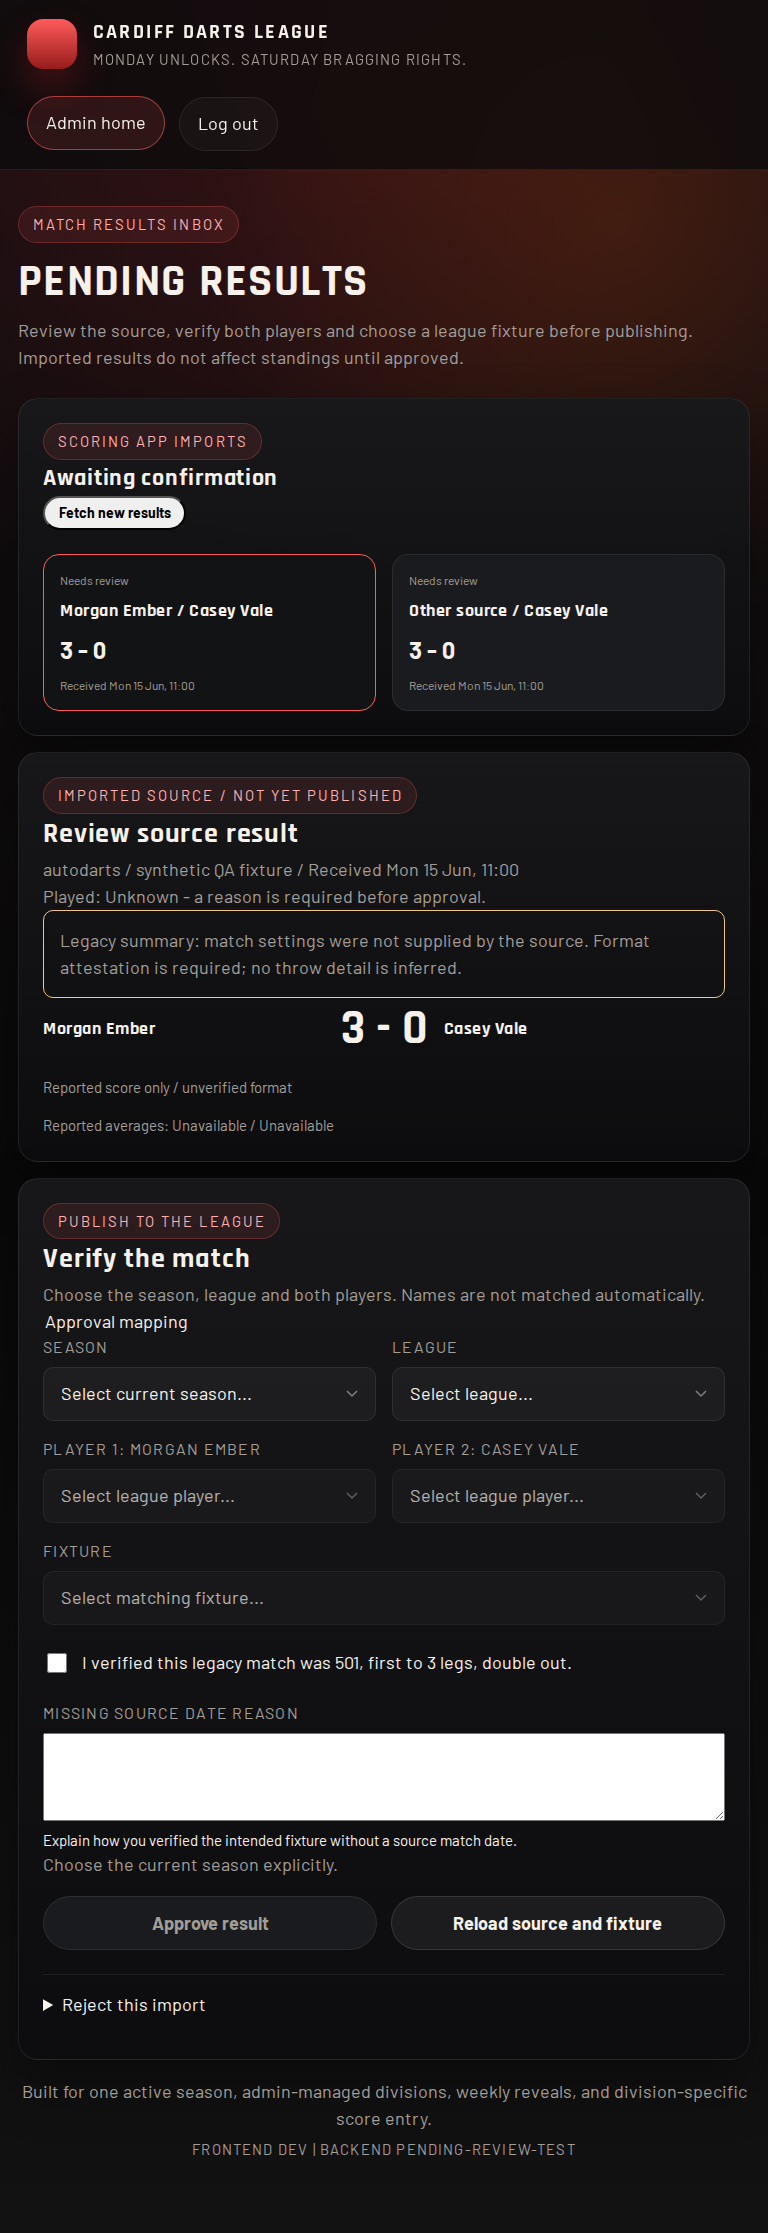
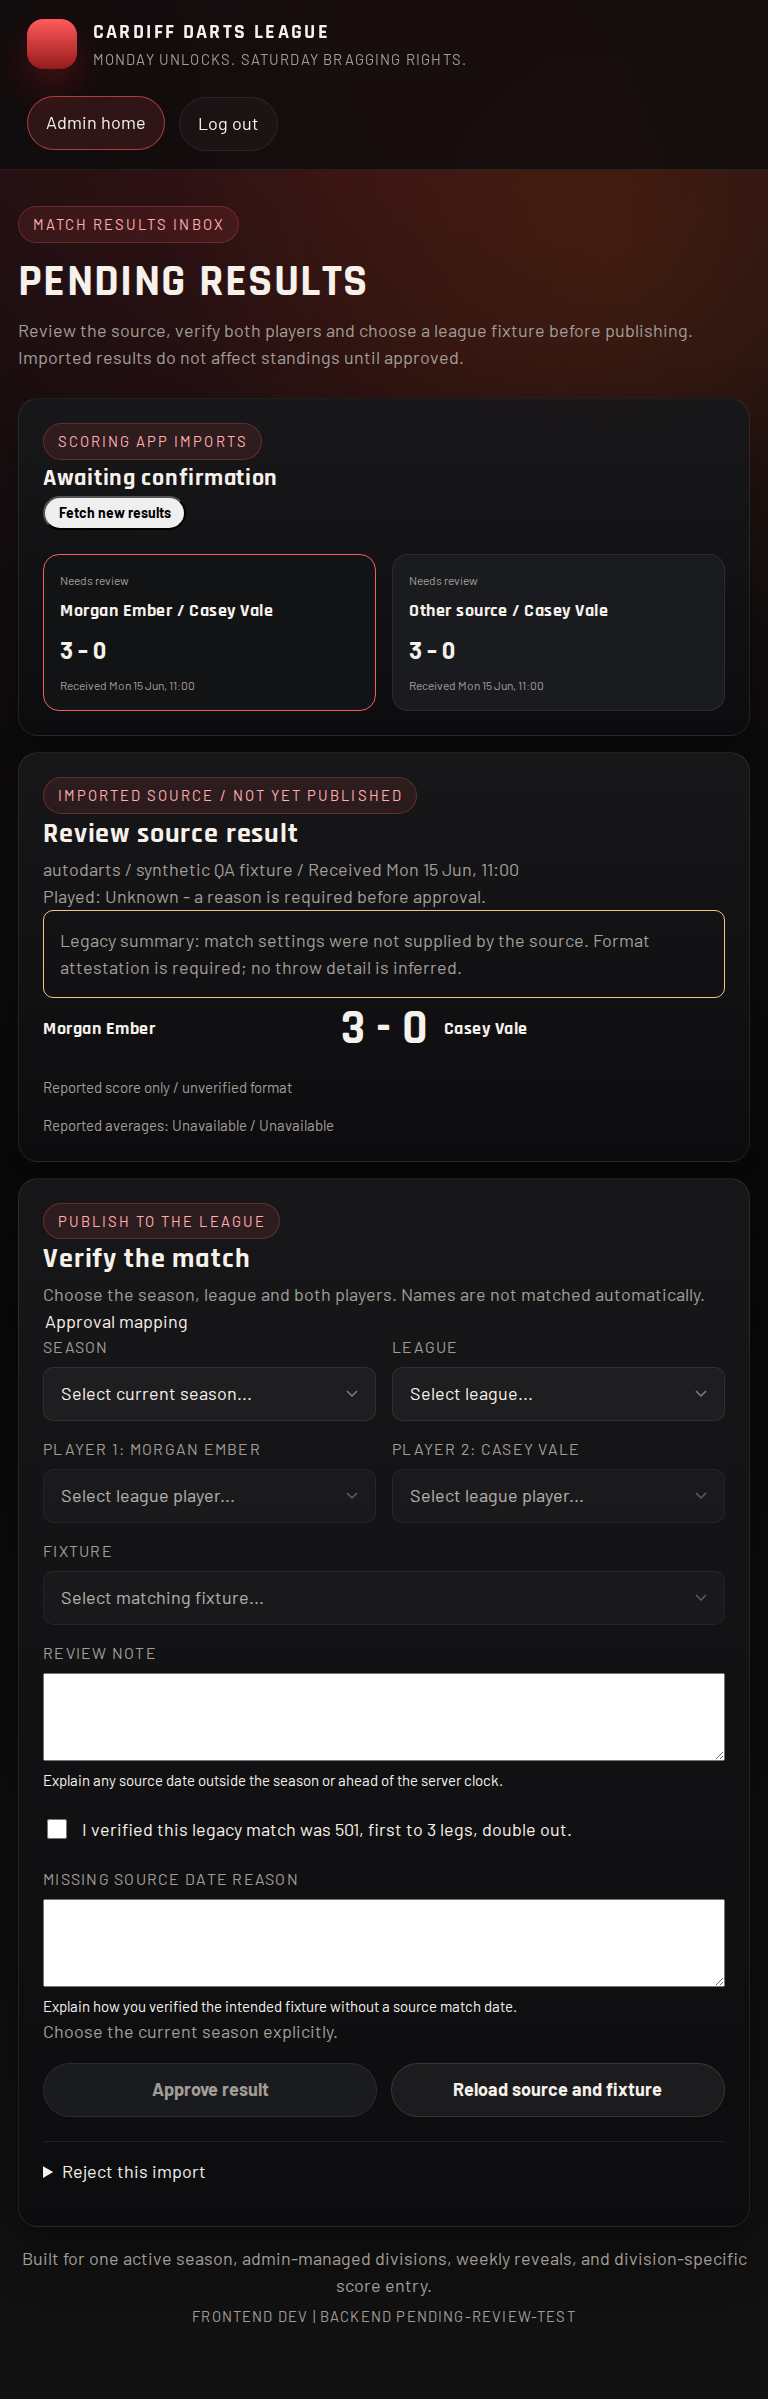
Record integrated import evidence and guarded rollout procedure

Changed region(s): [[0.0312, 0.0, 1.0, 0.9888], [0.8125, 0.3708, 0.8438, 0.4326], [0.4375, 0.5562, 0.4688, 0.5871]]

diff --git a/docs/autodarts-rollout.md b/docs/autodarts-rollout.md
@@ -1,0 +1,128 @@
+# Autodarts integration verification and staged rollout (#48)
+
+## Release boundary
+
+This work is local implementation and verification, **not deployment approval**.
+New producer/relay authentication was explicitly deferred. The relay therefore
+remains unauthenticated: receiving/acknowledging queue messages and submitting
+source claims are not protected by the admin session. Input validation, content
+digests and admin approval do not authenticate a scoring source. Do not expose
+this iteration as a production-ready trusted ingestion service.
+
+The pre-existing frontend lockfile audit reported 21 findings, including three
+critical findings involving browser-test tooling. Production exploitability was
+not established; neither a clean security audit nor a dependency remediation is
+claimed. Keep development/test servers on loopback. Review affected dependency
+usage and patch or explicitly accept mitigations before a deployment decision.
+
+Physical automatically scored dart geometry remains unverified. The captured
+manual browser coordinate adapter is supported; synthetic fixtures test rendering
+but do not establish physical accuracy. Unknown positions/geometry stay unknown.
+
+## Verified local flow
+
+The real-browser flow uses an intercepted, fictitious Autodarts response and the
+actual scraper, local HTTP relay wire adapter, actual Go application, unique
+Postgres schema, production frontend build and existing admin session:
+
+1. Capture all three legs and 48 recorded throws through the real scraper.
+2. Poll the local relay and durably store the import before acknowledgement.
+3. Select season, league, source-player mapping and fixture in the real review UI.
+4. Record a source-date review note, inspect the 27-dart winner heatmap and approve.
+5. Verify the public API still returns 404 before weekly reveal.
+6. Replay the identical source: it remains reviewed and does not create a new inbox item.
+7. Restart the test backend against the same schema with time advanced past reveal.
+8. Read the public match and heatmap, preserving optional metrics while stripping
+   source identity/profile fields.
+9. Manually correct the result: old source detail detaches. Undo: public detail is 404.
+
+`frontend/tests/autodarts/live-flow.mjs` records browser evidence under
+`docs/pr-screenshots/issue-48/`. No real Autodarts account, deployed relay or Slack
+channel is contacted. The test disables Slack explicitly, accepts only a loopback
+database URL and creates a random private schema. Cleanup drops **only that
+test-created schema** and removes its own temporary backend executable. Never set
+the test database variable to production, even if forwarded to localhost.
+
+The Go HTTP/Postgres flow additionally simulates a failed acknowledgement followed
+by redelivery and proves a single durable import survives. It caught and now guards
+the existing public-standings leak before reveal. Unit tests cover both London DST
+transitions at the exact reveal boundary; the standings ranking algorithm itself
+and mean-of-known-match averages are unchanged.
+
+## Repeat checks
+
+Use Node 22 satisfying the existing dependencies (the default workstation Node
+20.13 is too old). Install with the same Node runtime to obtain native optional
+bindings. Keep the checked-in lockfile; do not run an automatic audit fix as part
+of these tests.
+
+```sh
+# Repository root, after installing frontend dependencies:
+node score-scrape/scraper.test.mjs
+node docs/autodarts/check-v1.mjs
+node docs/autodarts-fixtures/verify.mjs
+
+# backend/; TEST_DATABASE_URL must point to disposable local Postgres:
+go test -race -shuffle=on -count=1 ./...
+
+# frontend/:
+npm test
+npm run build
+npm run lint
+node tests/match/verify.mjs
+node tests/matches/verify.mjs
+npx playwright test tests/pending-review.spec.js tests/ui-consistency.spec.js
+npm run test:e2e
+node tests/autodarts/live-flow.mjs
+```
+
+Without `TEST_DATABASE_URL`, Go database tests skip; do not report those skips as
+database verification. The browser full-flow script requires it and fails rather
+than silently using the in-memory fallback. Build the frontend immediately before
+running production-preview harnesses. The player-page harness from #46 must also
+be included in the final assembled check once integrated.
+
+## Coordinated cutover (future authorized deployment only)
+
+1. Resolve the authentication/security decision, review dependency findings,
+   take and test a database backup, and rehearse against a copy without real
+   notification endpoints. Verify Postgres is used, not the development fallback.
+2. Pause producer submission, scheduled polling and manual polling for the
+   cutover. Do not run the old delete-on-read reader alongside the new consumer.
+   Observe queue retention and backlogs; do not purge messages to simplify upgrade.
+3. Apply/rehearse the runtime embedded migrations: legacy pending rows are
+   retained/backfilled; source+external ID+digest replaces ID-only deduplication;
+   source originals are immutable; review/result links and audit metadata are added.
+4. Deploy the new receive/ack reader and backend as a coordinated version pair.
+   Enable the new frontend with them: old positional confirmation requests are
+   intentionally incompatible with explicit mappings and expected snapshots.
+5. Exercise an isolated known import, including failed delivery and duplicate
+   handling, admin approval, public gating and edit/undo. Check the actual `.com`
+   producer origin, bounded payloads, queue/DLQ metrics and receipt handling.
+6. Update the scraper. It defaults to sandbox: enabling live submissions is an
+   explicit operator action documented in `score-scrape/SCRAPER.md`. Legacy
+   summary payloads remain accepted; no arbitrary sunset/purge timer is applied.
+7. Resume polling/producers only after durability and UI/API compatibility checks.
+
+## Rollback and operational diagnosis
+
+- A safe immediate fallback is to stop imports and use compatible admin manual
+  entry; preserve queued messages, detailed imports and audit history.
+- Do not blindly downgrade to the old reader or schema. The old reader deletes
+  on receipt, old code assumes different uniqueness, and the new immutable-source
+  trigger rejects writes that were formerly possible. Rehearse a version-specific
+  recovery; never drop new columns/detail to make old code start.
+- A committed import followed by failed acknowledgement can be redelivered safely;
+  exact replay returns the existing reviewed/rejected/pending row, not a new result.
+- Changed content creates a separate review requiring explicit replacement; it
+  does not mean latest-arriving data is more trustworthy.
+- Invalid/oversized payloads remain unacknowledged for bounded retry/native DLQ
+  redrive. Diagnose sanitized error categories and message/queue counts rather than
+  logging raw bodies, receipts, profiles or credentials. No automatic deletion of
+  application imports is implemented.
+- Capture missing-coordinate cases as unavailable evidence, not zero accuracy or
+  synthetic dots. A manual result remains usable without detailed statistics.
+
+No pushes, deployments, GitHub issue closure, live board matches or dependency
+upgrades are part of this verification. Screenshot/browser checks are not a full
+Lighthouse, independent visual or accessibility certification.
